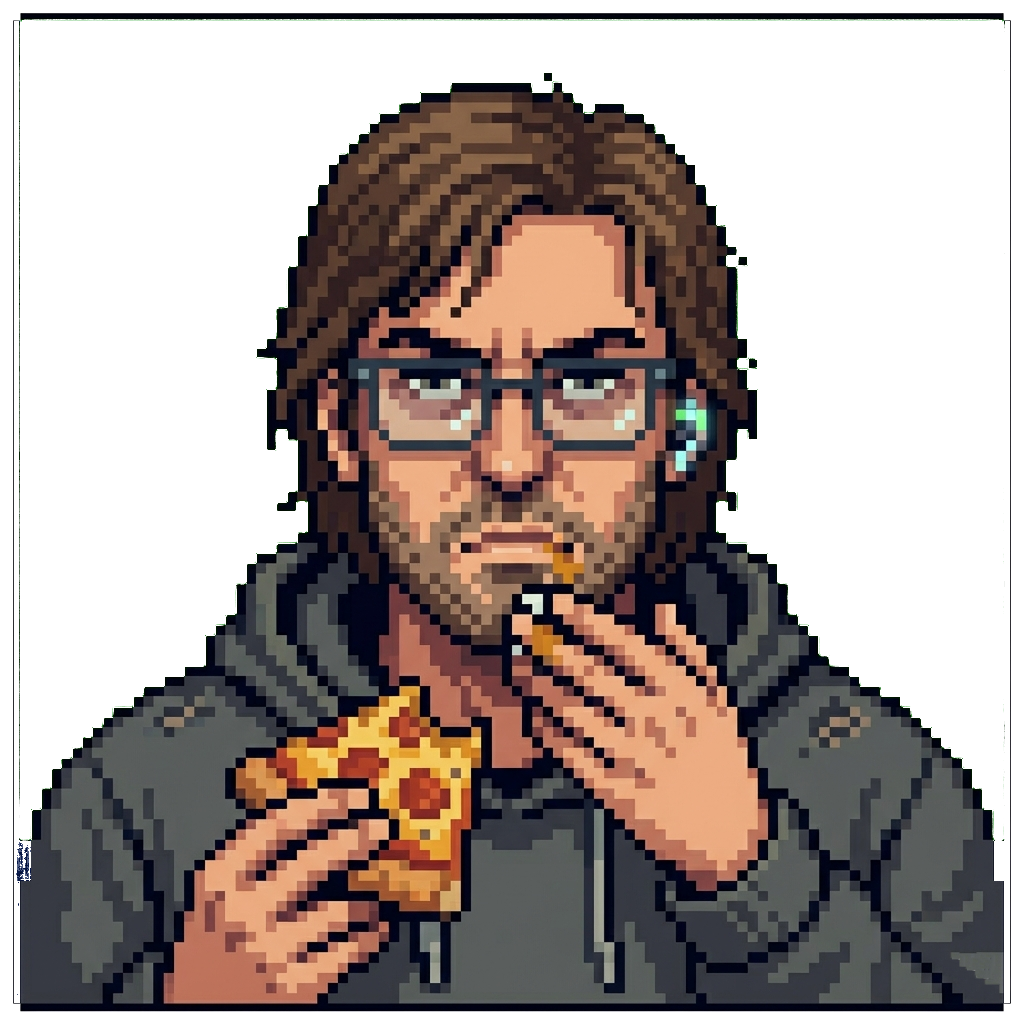
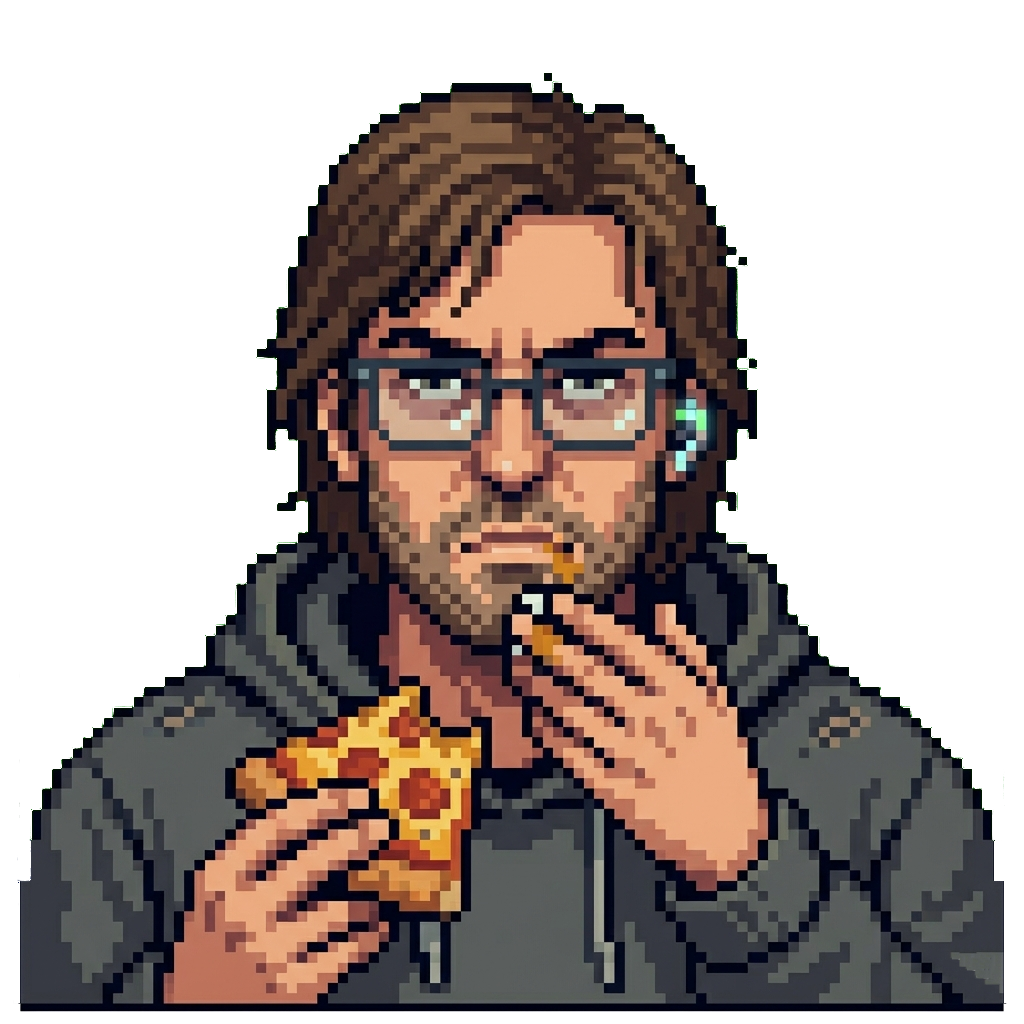
added bg for intro,bad,good ending

Changed region(s): [[0.0, 0.0, 1.0, 0.0312], [0.0, 0.8125, 0.0312, 0.875]]

diff --git a/src/game/IntroScene.js b/src/game/IntroScene.js
@@ -5,13 +5,29 @@ export default class IntroScene extends Phaser.Scene {
   constructor() {
     super({ key: 'IntroScene' });
   }
+  preload() {
+    this.load.image('introBg', 'location/introSceneBg.png');
+  }
 
   create() {
     // Silence — no BGM during the intro
     bgmController.stop();
 
-    // Basic black background
-    this.cameras.main.setBackgroundColor('#000000');
+    // Background Image
+    const bg = this.add.image(this.cameras.main.centerX, this.cameras.main.centerY, 'introBg');
+    const scaleX = this.cameras.main.width / bg.width;
+    const scaleY = this.cameras.main.height / bg.height;
+    bg.setScale(Math.max(scaleX, scaleY));
+
+    // Scrim for readability
+    this.add.rectangle(
+      this.cameras.main.centerX,
+      this.cameras.main.centerY,
+      this.cameras.main.width,
+      this.cameras.main.height,
+      0x000000,
+      0.85
+    );
 
     this.monologue = [
       "The rain hadn't stopped for three days.",
@@ -23,7 +39,7 @@ export default class IntroScene extends Phaser.Scene {
 
     this.currentLineIndex = 0;
     this.currentCharIndex = 0;
-    
+
     // Text object for typewriter effect
     this.textObject = this.add.text(this.cameras.main.centerX, this.cameras.main.centerY, '', {
       fontFamily: '"Courier New", Courier, monospace',
@@ -73,7 +89,7 @@ export default class IntroScene extends Phaser.Scene {
           // Wait 3 seconds, then fade out text
           this.time.delayedCall(3000, () => {
             if (this.isTransitioning) return; // Prevent if already skipping
-            
+
             this.tweens.add({
               targets: this.textObject,
               alpha: 0,
@@ -102,7 +118,7 @@ export default class IntroScene extends Phaser.Scene {
       this.textObject.setText(this.monologue[this.currentLineIndex]);
 
       this.time.removeAllEvents();
-      
+
       this.time.delayedCall(3000, () => {
         if (this.isTransitioning) return;
         this.tweens.add({
@@ -128,12 +144,12 @@ export default class IntroScene extends Phaser.Scene {
   finishIntro() {
     if (this.isTransitioning) return;
     this.isTransitioning = true;
-    
+
     this.time.removeAllEvents();
     if (this.timeEvent) {
-        this.timeEvent.remove();
+      this.timeEvent.remove();
     }
-    
+
     this.cameras.main.fadeOut(2000, 0, 0, 0);
     this.cameras.main.once(Phaser.Cameras.Scene2D.Events.FADE_OUT_COMPLETE, () => {
       this.scene.start('OfficeScene');

diff --git a/src/game/EndingScene.js b/src/game/EndingScene.js
@@ -10,8 +10,29 @@ export default class EndingScene extends Phaser.Scene {
     this.isWin = !!data.isWin;
   }
 
+  preload() {
+    this.load.image('goodEndingBg', 'location/goodEnding.png');
+    this.load.image('badEndingBg', 'location/badEnding.png');
+  }
+
   create() {
     this.cameras.main.setBackgroundColor('#000000');
+
+    const bgKey = this.isWin ? 'goodEndingBg' : 'badEndingBg';
+    const bg = this.add.image(this.cameras.main.centerX, this.cameras.main.centerY, bgKey);
+    const scaleX = this.cameras.main.width / bg.width;
+    const scaleY = this.cameras.main.height / bg.height;
+    bg.setScale(Math.max(scaleX, scaleY));
+
+    // Scrim for readability
+    this.add.rectangle(
+      this.cameras.main.centerX,
+      this.cameras.main.centerY,
+      this.cameras.main.width,
+      this.cameras.main.height,
+      0x000000,
+      0.85
+    );
 
     const goodEndingText = [
       "The cuffs clicked shut.",

diff --git a/dev-dist/sw.js b/dev-dist/sw.js
@@ -78,7 +78,7 @@ define(['./workbox-7e5eb42b'], (function (workbox) { 'use strict';
    */
   workbox.precacheAndRoute([{
     "url": "index.html",
-    "revision": "0.hjpstcugm4g"
+    "revision": "0.2plgq5ah4s8"
   }], {});
   workbox.cleanupOutdatedCaches();
   workbox.registerRoute(new workbox.NavigationRoute(workbox.createHandlerBoundToURL("index.html"), {